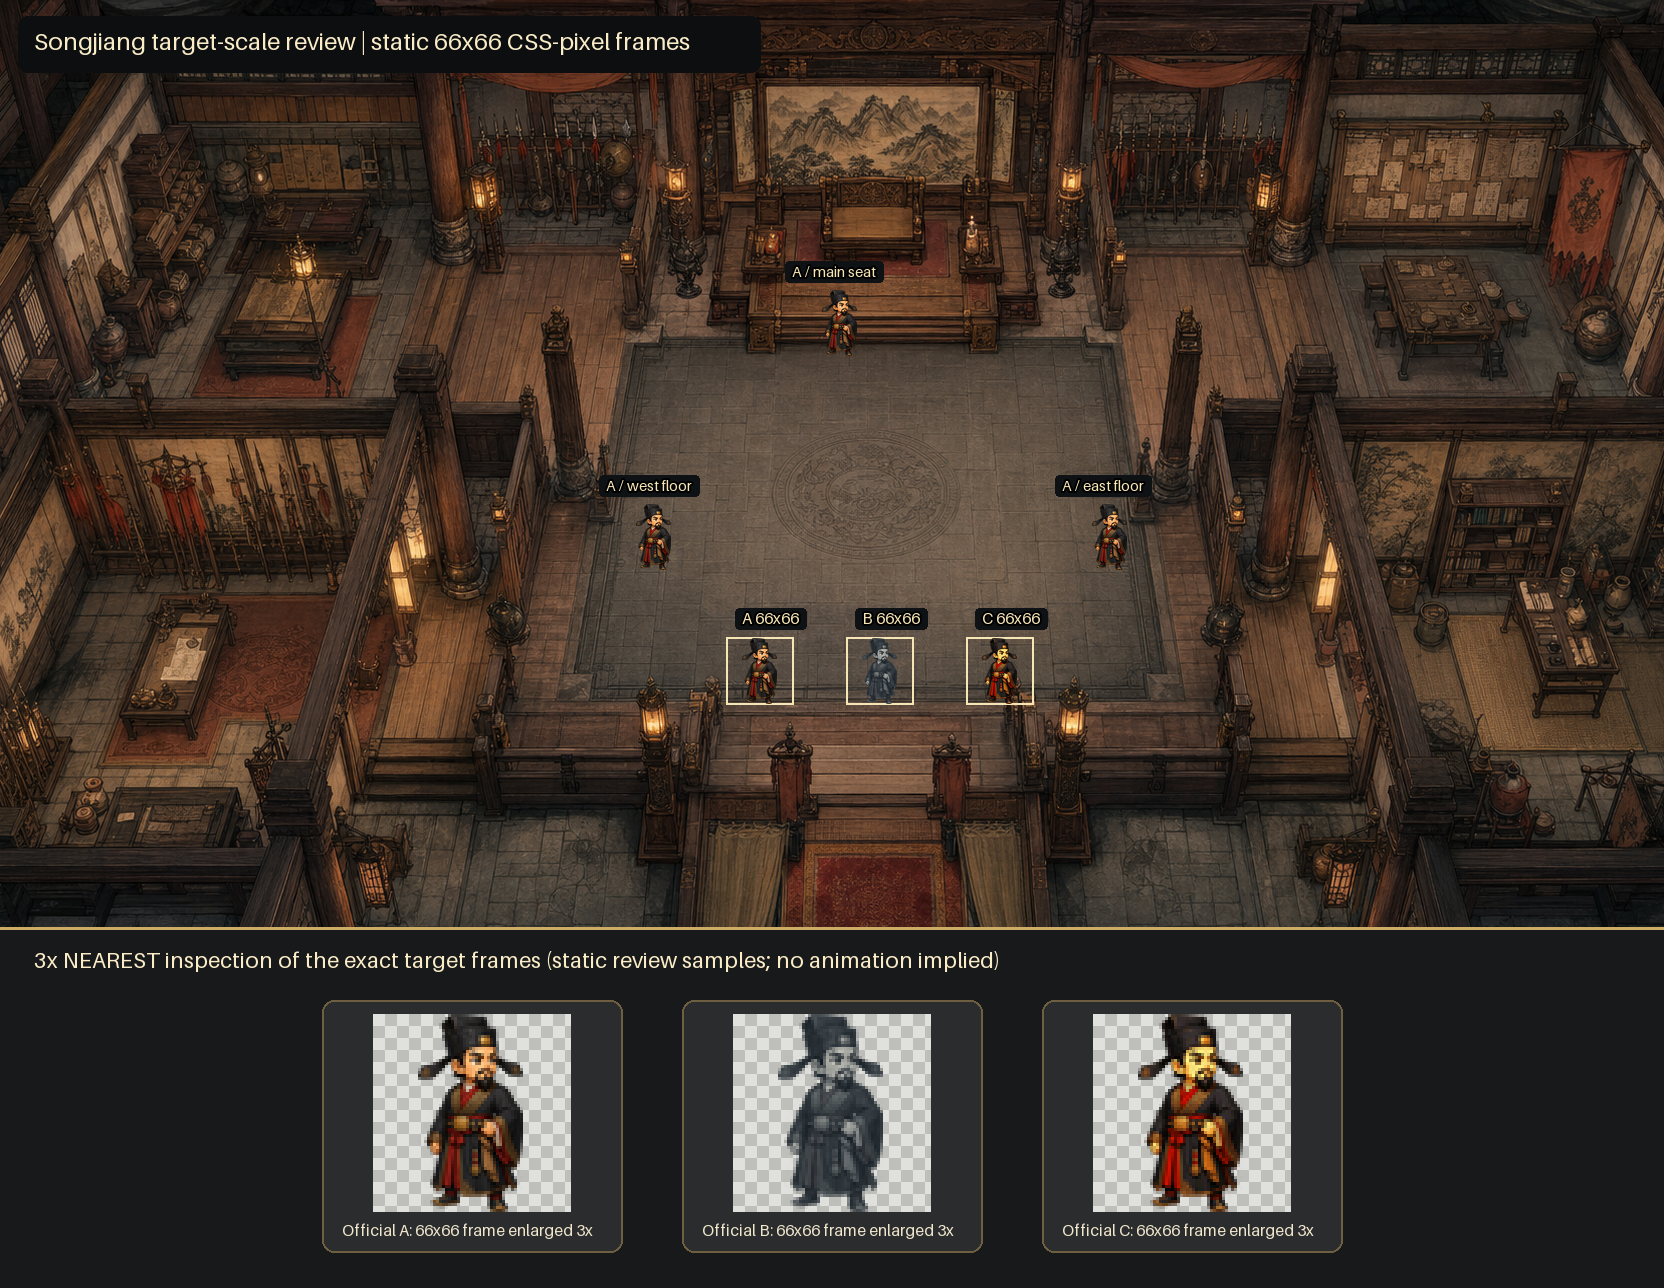
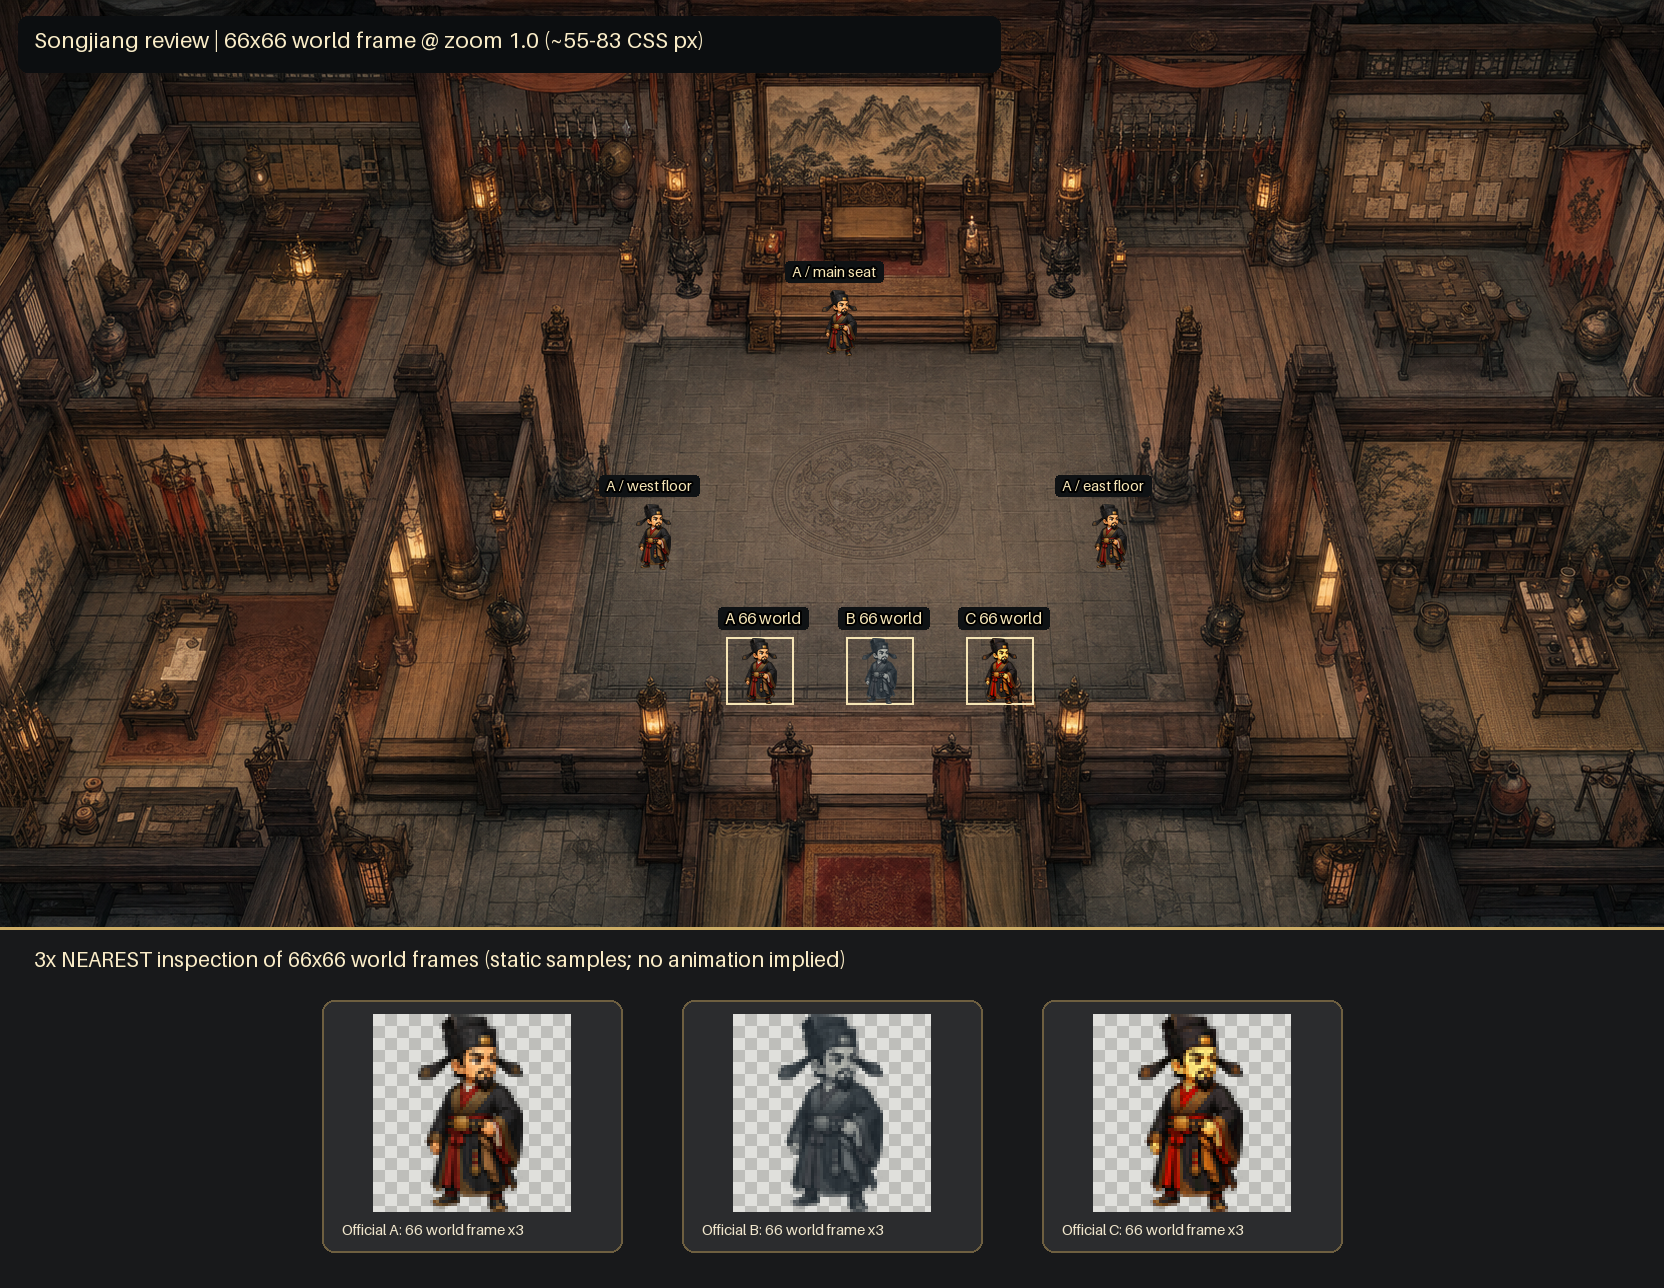
art: clarify Songjiang review scale semantics

diff --git a/docs/assets/juyiting/songjiang-style-review/derive_review_assets.py b/docs/assets/juyiting/songjiang-style-review/derive_review_assets.py
@@ -10,9 +10,11 @@ Outputs:
   target-scale-preview.png  actual hall composite and target-pixel inspection strip
 
 B and C always reuse A's alpha channel byte-for-byte. The target-scale sprite is
-the alpha bounding box contained in an exact 66x66 transparent frame with
-Pillow LANCZOS resampling. The inspection strip enlarges that already-resized
-66x66 frame by exactly 3x with NEAREST; it does not invent animation frames.
+the alpha bounding box contained in a 66x66 transparent source/world review
+frame for map zoom 1.0, using Pillow LANCZOS resampling. Across current runtime
+zoom presets 0.84-1.25 this is approximately 55-83 CSS px; it is approximately
+66 CSS px at zoom 1.0. The inspection strip enlarges that already-resized frame
+by exactly 3x with NEAREST; it does not invent animation frames.
 
 Run:
   python derive_review_assets.py
@@ -27,6 +29,7 @@ import tempfile
 from pathlib import Path
 
 import numpy as np
+import PIL
 from PIL import Image, ImageDraw, ImageEnhance, ImageFilter, ImageFont, ImageOps
 
 
@@ -40,6 +43,8 @@ FRAME_SIZE = 66
 MAP_SIZE = (1664, 928)
 INSPECTION_HEIGHT = 360
 PREVIEW_SIZE = (MAP_SIZE[0], MAP_SIZE[1] + INSPECTION_HEIGHT)
+REQUIRED_PILLOW_VERSION = "12.2.0"
+REQUIRED_NUMPY_VERSION = "2.4.2"
 
 
 def derive_b_and_c(source_a: Path, output_dir: Path) -> tuple[Path, Path]:
@@ -149,7 +154,7 @@ def derive_b_and_c(source_a: Path, output_dir: Path) -> tuple[Path, Path]:
 
 
 def target_frame(path: Path) -> Image.Image:
-    """Contain the visible subject in an exact transparent 66x66 frame."""
+    """Contain the subject in a 66x66 source/world frame for map zoom 1.0."""
     source = Image.open(path).convert("RGBA")
     bounds = source.getchannel("A").getbbox()
     if bounds is None:
@@ -193,11 +198,11 @@ def render_preview(source_a: Path, source_b: Path, source_c: Path, output_path: 
     preview.alpha_composite(hall, (0, 0))
     draw = ImageDraw.Draw(preview, "RGBA")
 
-    draw.rounded_rectangle((18, 16, 760, 72), radius=10, fill=(12, 14, 16, 220))
+    draw.rounded_rectangle((18, 16, 1000, 72), radius=10, fill=(12, 14, 16, 220))
     draw.text(
         (34, 26),
-        "Songjiang target-scale review | static 66x66 CSS-pixel frames",
-        font=default_font(24),
+        "Songjiang review | 66x66 world frame @ zoom 1.0 (~55-83 CSS px)",
+        font=default_font(22),
         fill=(250, 236, 199, 255),
     )
 
@@ -212,23 +217,23 @@ def render_preview(source_a: Path, source_b: Path, source_c: Path, output_path: 
         preview.alpha_composite(frames["A"], (center_x - FRAME_SIZE // 2, bottom_y - FRAME_SIZE))
         label(draw, (center_x - 48, bottom_y - FRAME_SIZE - 28), text, 15)
 
-    # Side-by-side official comparison, each inside an exact 66x66 review
-    # outline. The outlines and labels are evidence overlays, not runtime UI.
+    # Side-by-side official comparison, each inside a 66x66 source/world review
+    # outline at zoom 1.0. The overlays are not runtime UI.
     comparison = [(760, 704, "A"), (880, 704, "B"), (1000, 704, "C")]
     for center_x, bottom_y, key in comparison:
         left = center_x - FRAME_SIZE // 2
         top = bottom_y - FRAME_SIZE
         draw.rectangle((left - 1, top - 1, left + FRAME_SIZE, top + FRAME_SIZE), outline=(246, 229, 181, 230), width=2)
         preview.alpha_composite(frames[key], (left, top))
-        label(draw, (center_x - 18, top - 30), f"{key} 66x66", 16)
+        label(draw, (center_x - 35, top - 30), f"{key} 66 world", 16)
 
     strip_top = MAP_SIZE[1]
     draw.rectangle((0, strip_top, PREVIEW_SIZE[0], PREVIEW_SIZE[1]), fill=(24, 25, 27, 255))
     draw.line((0, strip_top, PREVIEW_SIZE[0], strip_top), fill=(205, 173, 102, 255), width=3)
     draw.text(
         (34, strip_top + 18),
-        "3x NEAREST inspection of the exact target frames (static review samples; no animation implied)",
-        font=default_font(22),
+        "3x NEAREST inspection of 66x66 world frames (static samples; no animation implied)",
+        font=default_font(21),
         fill=(250, 236, 199, 255),
     )
 
@@ -253,8 +258,8 @@ def render_preview(source_a: Path, source_b: Path, source_c: Path, output_path: 
         preview.alpha_composite(checker, (x + (panel_width - checker.width) // 2, y + 14))
         draw.text(
             (x + 20, y + 220),
-            f"Official {key}: 66x66 frame enlarged 3x",
-            font=default_font(16),
+            f"Official {key}: 66 world frame x3",
+            font=default_font(15),
             fill=(240, 230, 204, 255),
         )
 
@@ -271,7 +276,18 @@ def sha256(path: Path) -> str:
     return hashlib.sha256(path.read_bytes()).hexdigest()
 
 
+def require_byte_toolchain() -> None:
+    problems = []
+    if PIL.__version__ != REQUIRED_PILLOW_VERSION:
+        problems.append(f"Pillow {REQUIRED_PILLOW_VERSION} (found {PIL.__version__})")
+    if np.__version__ != REQUIRED_NUMPY_VERSION:
+        problems.append(f"NumPy {REQUIRED_NUMPY_VERSION} (found {np.__version__})")
+    if problems:
+        raise SystemExit("Byte-for-byte --check requires " + " and ".join(problems) + ".")
+
+
 def check() -> None:
+    require_byte_toolchain()
     with tempfile.TemporaryDirectory(prefix="songjiang-review-") as temporary:
         generated_dir = Path(temporary)
         generate(generated_dir)
@@ -285,7 +301,11 @@ def check() -> None:
 
 def main() -> None:
     parser = argparse.ArgumentParser()
-    parser.add_argument("--check", action="store_true", help="regenerate in a temp directory and compare bytes")
+    parser.add_argument(
+        "--check", action="store_true",
+        help=("regenerate and compare bytes; requires Pillow "
+              f"{REQUIRED_PILLOW_VERSION} and NumPy {REQUIRED_NUMPY_VERSION}"),
+    )
     args = parser.parse_args()
     if args.check:
         check()

diff --git a/docs/assets/juyiting/songjiang-style-review/derive_camera_angle_preview.py b/docs/assets/juyiting/songjiang-style-review/derive_camera_angle_preview.py
@@ -16,6 +16,7 @@ import hashlib
 import tempfile
 from pathlib import Path
 
+import PIL
 from PIL import Image, ImageDraw, ImageFont
 
 
@@ -30,10 +31,11 @@ OUTPUT_PATH = REVIEW_DIR / OUTPUT_NAME
 FRAME_SIZE = 66
 SUBJECT_MAX = 64
 PREVIEW_SIZE = (1664, 1260)
+REQUIRED_PILLOW_VERSION = "12.2.0"
 
 
 def target_frame(source_path: Path) -> Image.Image:
-    """Bottom-center the visible source subject in an exact 66x66 frame."""
+    """Bottom-center the subject in a 66x66 source/world frame for zoom 1.0."""
     source = Image.open(source_path).convert("RGBA")
     bounds = source.getchannel("A").getbbox()
     if bounds is None:
@@ -72,15 +74,16 @@ def render(output_path: Path) -> None:
             stroke_width=2, stroke_fill=(0, 0, 0, 255),
         )
 
-    draw.rounded_rectangle((18, 16, 830, 72), 10, fill=(12, 14, 16, 225))
+    draw.rounded_rectangle((18, 16, 1080, 72), 10, fill=(12, 14, 16, 225))
     draw.text(
         (34, 26),
-        "Songjiang H style | 45-degree vs 55-degree | exact 66x66 hall test",
-        font=font(23),
+        "45-degree vs 55-degree | 66x66 world frame @ zoom 1.0 (~55-83 CSS px)",
+        font=font(22),
         fill=(250, 236, 199, 255),
     )
 
-    # Same-depth hall placements, each using the exact 66x66 frame.
+    # Same-depth hall placements, each using a 66x66 source/world frame at
+    # map zoom 1.0. Runtime CSS size varies with camera zoom.
     for center_x, bottom_y, key in [
         (760, 356, "45 deg"),
         (920, 356, "55 deg"),
@@ -90,7 +93,7 @@ def render(output_path: Path) -> None:
         canvas.alpha_composite(frames[key], (center_x - 33, bottom_y - 66))
         label(center_x - 36, bottom_y - 95, key, 16)
 
-    # Explicit frame outlines make the exact runtime-scale comparison auditable.
+    # Explicit outlines make the 66x66 source/world frame auditable.
     for center_x, key in [(780, "45 deg"), (900, "55 deg")]:
         bottom_y = 704
         draw.rectangle(
@@ -99,7 +102,7 @@ def render(output_path: Path) -> None:
             width=2,
         )
         canvas.alpha_composite(frames[key], (center_x - 33, bottom_y - 66))
-        label(center_x - 58, bottom_y - 96, f"{key} 66x66", 16)
+        label(center_x - 48, bottom_y - 96, f"{key[:2]}: 66 world", 14)
 
     # Review-only inspection strip: enlarge the already-created target frame
     # exactly 3x with NEAREST. This is not a source-art rerender or animation.
@@ -108,8 +111,8 @@ def render(output_path: Path) -> None:
     draw.line((0, strip_top, width, strip_top), fill=(205, 173, 102, 255), width=3)
     draw.text(
         (34, 948),
-        "Camera-angle comparison at 3x (review aid; hall placements above are exact runtime scale)",
-        font=font(22),
+        "3x review aid | 66 world px = ~55-83 CSS px at zoom 0.84-1.25 (~66 CSS at 1.0)",
+        font=font(21),
         fill=(250, 236, 199, 255),
     )
     for center_x, key, description in [
@@ -147,7 +150,16 @@ def sha256(path: Path) -> str:
     return hashlib.sha256(path.read_bytes()).hexdigest()
 
 
+def require_byte_toolchain() -> None:
+    if PIL.__version__ != REQUIRED_PILLOW_VERSION:
+        raise SystemExit(
+            "Byte-for-byte --check requires "
+            f"Pillow {REQUIRED_PILLOW_VERSION}; found {PIL.__version__}."
+        )
+
+
 def check() -> None:
+    require_byte_toolchain()
     with tempfile.TemporaryDirectory(prefix="songjiang-camera-review-") as temporary:
         generated = Path(temporary) / OUTPUT_NAME
         render(generated)
@@ -158,7 +170,10 @@ def check() -> None:
 
 def main() -> None:
     parser = argparse.ArgumentParser()
-    parser.add_argument("--check", action="store_true", help="regenerate in a temp directory and compare bytes")
+    parser.add_argument(
+        "--check", action="store_true",
+        help=f"regenerate and compare bytes (requires Pillow {REQUIRED_PILLOW_VERSION})",
+    )
     args = parser.parse_args()
     if args.check:
         check()

diff --git a/docs/assets/juyiting/songjiang-style-review/generation.md b/docs/assets/juyiting/songjiang-style-review/generation.md
@@ -49,7 +49,7 @@ python docs/assets/juyiting/songjiang-style-review/derive_review_assets.py
 python docs/assets/juyiting/songjiang-style-review/derive_review_assets.py --check
 ```
 
-The committed derivation was produced with Python, Pillow `12.2.0`, and NumPy `2.4.2`. `--check` regenerates B, C, and the preview in a temporary directory and requires byte-for-byte equality with committed outputs.
+The committed derivation was produced with Python, Pillow `12.2.0`, and NumPy `2.4.2`. `--check` explicitly requires those versions, then regenerates B, C, and the preview in a temporary directory and requires byte-for-byte equality with committed outputs. A mismatched toolchain exits with a clear error instead of reporting a misleading byte mismatch.
 
 ### Official B: cool muted ink/wash
 
@@ -71,10 +71,11 @@ The committed derivation was produced with Python, Pillow `12.2.0`, and NumPy `2
 ## Deterministic target-scale preview
 
[1 lines of base64/hex data omitted]
-- For each official sample, crop to its nonzero alpha bounds and contain it bottom-centered in an exact transparent `66x66` frame using Pillow LANCZOS resampling.
+- For each official sample, crop to its nonzero alpha bounds and contain it bottom-centered in a transparent `66x66` source/world review frame using Pillow LANCZOS resampling.
 - Composite multiple A instances at representative main-seat, west-floor, and east-floor positions.
-- Composite A/B/C side-by-side in separately outlined `66x66` evidence frames. Labels and outlines are review overlays, not runtime UI.
+- Composite A/B/C side-by-side in separately outlined `66x66` source/world evidence frames at map zoom `1.0`. Labels and outlines are review overlays, not runtime UI.
 - Append a separated inspection strip. Enlarge the already-created `66x66` target frame exactly `3x` with NEAREST, so the strip exposes target pixels rather than resampling the source artwork again.
+- Runtime CSS display is zoom-dependent: the current `0.84-1.25` presets display a `66x66` world frame at approximately `55-83` CSS px, with approximately `66` CSS px at zoom `1.0`.
 - The result is a static review composite. It does not claim or simulate animation.
 
 ## Native 2.5D camera-angle review workflow
@@ -126,7 +127,7 @@ python "$env:USERPROFILE\.codex\skills\.system\imagegen\scripts\remove_chroma_ke
   --despill
 ```
 
-### Deterministic exact-66x66 hall comparison
+### Deterministic 66x66 source/world hall comparison
 
 Run:
 
@@ -135,4 +136,4 @@ python docs/assets/juyiting/songjiang-style-review/derive_camera_angle_preview.p
 python docs/assets/juyiting/songjiang-style-review/derive_camera_angle_preview.py --check
 ```
 
[2 lines of base64/hex data omitted]

diff --git a/docs/assets/juyiting/songjiang-style-review/review.md b/docs/assets/juyiting/songjiang-style-review/review.md
@@ -24,13 +24,13 @@ Approved at: 2026-07-15T06:37:59+08:00
 
 This approval records Richow's explicit re-review of the revised official A/B/C; the selection and scores are unchanged.
 
-Sample A remains the approved H direction: semi-realistic hand-painted Q-version. Final production should strengthen the outline and simplify small details for approximately 66x66 CSS px presentation.
+Sample A remains the approved H direction: semi-realistic hand-painted Q-version. Final production should strengthen the outline and simplify small details for the planned 66x66 source/world frame at map zoom 1.0.
 
 These images are review samples, not a final sprite sheet.
 
 ## Target-scale evidence
 
-[`target-scale-preview.png`](target-scale-preview.png) composites official A/B/C onto the actual `public/juyiting/images/liangshan-hall-base-clean-v3.png` hall artwork. It includes multiple static A placements, a side-by-side A/B/C comparison in exact 66x66 CSS-pixel review frames, and a clearly separated 3x nearest-neighbor inspection strip. The preview is static review evidence and does not represent or imply animation.
+[`target-scale-preview.png`](target-scale-preview.png) composites official A/B/C onto the actual `public/juyiting/images/liangshan-hall-base-clean-v3.png` hall artwork. It includes multiple static A placements, a side-by-side A/B/C comparison in 66x66 source/world review frames at map zoom 1.0, and a clearly separated 3x nearest-neighbor inspection strip. With current runtime zoom presets `0.84-1.25`, the same frame displays at approximately `55-83` CSS px; it is approximately `66` CSS px at zoom `1.0`. The preview is static review evidence and does not represent or imply animation.
 
 The original decision and score block above remains the traceable style-direction decision.
 
@@ -40,10 +40,11 @@ The original decision and score block above remains the traceable style-directio
 - **Confirmation scope:** Size only
 - **Confirmed by:** Richow
 - **Confirmed at:** 2026-07-15T21:52:40+08:00
-- **Confirmed display:** Planned approximately 66x66 CSS-pixel in-map frame scale
+- **Confirmed base target:** 66x66 source/world in-map frame at map zoom 1.0
+- **Runtime CSS range:** Approximately 55-83 CSS px across current 0.84-1.25 zoom presets; approximately 66 CSS px at zoom 1.0
 - **Camera-angle status:** Resolved by the separately approved native 55-degree gate below
 
-Richow confirmed the planned approximately 66x66 CSS-pixel display size independently of the camera-angle decision.
+Richow confirmed the planned base target size independently of the camera-angle decision. This confirmation does not claim an exact 66 CSS-pixel display at every runtime zoom preset.
 
 ## Native 2.5D camera-angle confirmation
 
@@ -56,9 +57,9 @@ Richow confirmed the planned approximately 66x66 CSS-pixel display size independ
 - **Approved at:** 2026-07-15T23:17:22+08:00
 - **Runtime transform policy:** Native sprite artwork; no CSS skew, perspective, rotation, or substitute transform
 
-Richow selected the 55-degree sample after reviewing the exact 66x66 hall comparison against the 45-degree alternative. This resolves the camera-angle correction required after the earlier size-only review.
+Richow selected the 55-degree sample after reviewing the 66x66 source/world hall comparison at map zoom 1.0 against the 45-degree alternative. This resolves the camera-angle correction required after the earlier size-only review.
 
-Task 5 now records three distinct approvals: style direction A, the planned approximately 66x66 CSS-pixel target size, and the native 55-degree single-frame camera angle. These approvals complete the review evidence only. The final animated sprite sheet remains future Task 7 work and is not represented as delivered or approved here.
+Task 5 now records three distinct approvals: style direction A, the planned 66x66 source/world base frame at zoom 1.0, and the native 55-degree single-frame camera angle. Runtime CSS size remains zoom-dependent. These approvals complete the review evidence only. The final animated sprite sheet remains future Task 7 work and is not represented as delivered or approved here.
 
 ## Generation method
 
